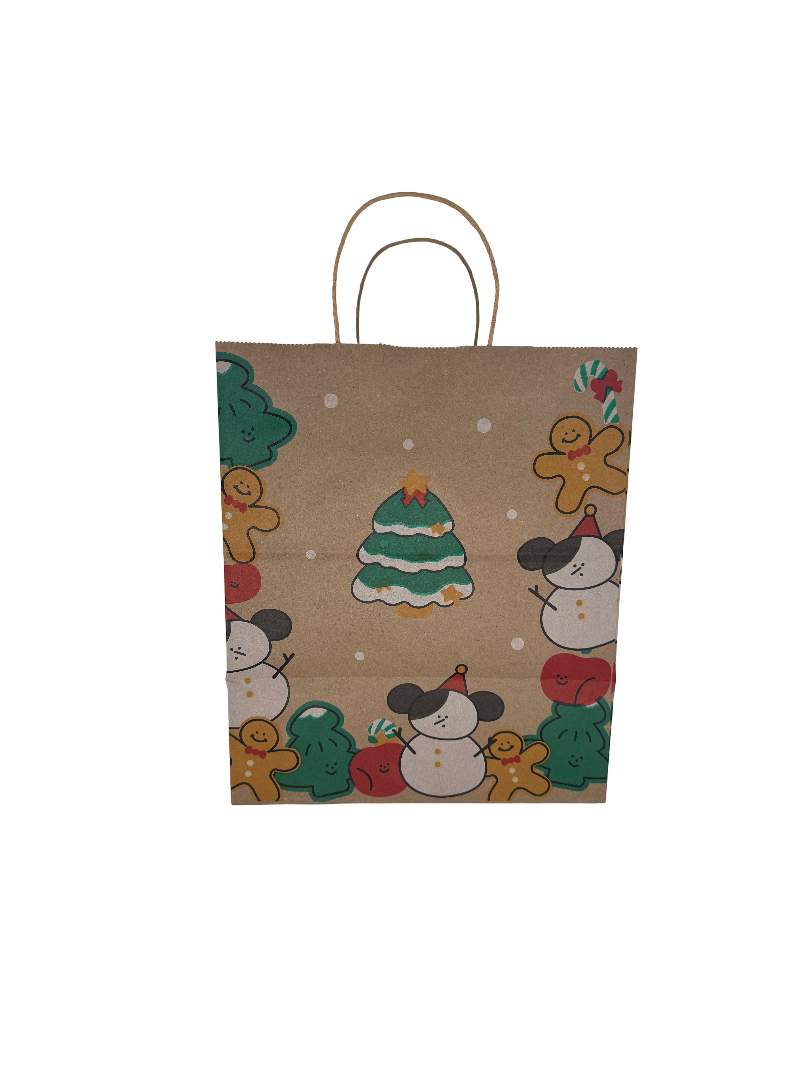
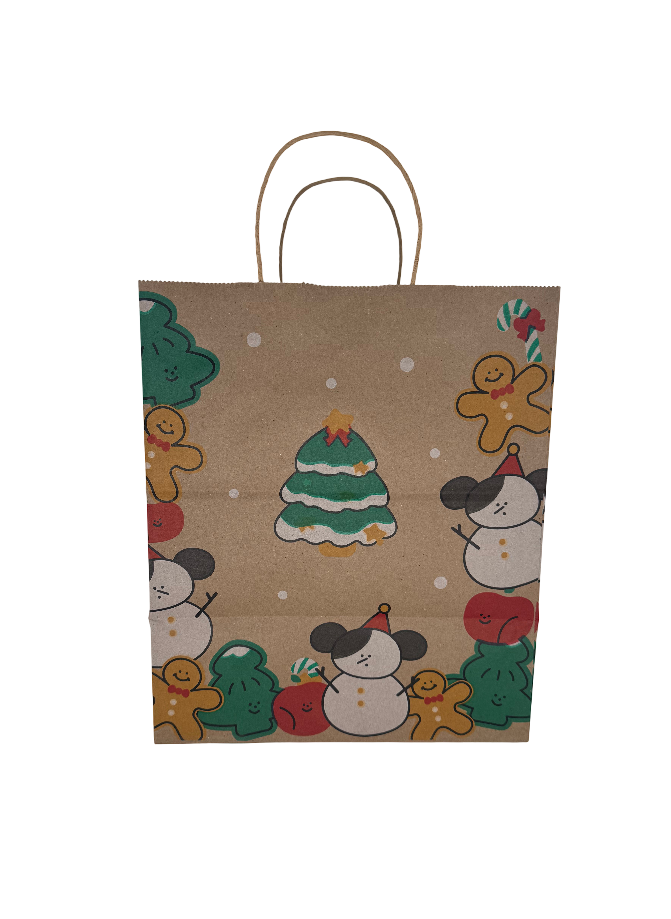
pic adding

Changed region(s): [[0.2086, 0.1219, 0.8346, 0.8226], [0.5961, 0.3961, 0.6259, 0.4266]]

diff --git a/app/components/ProductPage/ProductPage.tsx b/app/components/ProductPage/ProductPage.tsx
@@ -13,9 +13,13 @@ import styles from './Productpage.module.css';
 import QuoteForm from '../QuoteForm/QuoteForm';
 import ProductTable from '../ProductTable/ProductTable';
 import ropehandle from '../../public/paperbagproduct.jpg';
-import flathandle from '../../public/flathandle1.jpeg';
-import flathandle2 from '../../public/flathandle2.jpg.jpeg';
-import nohandle from '../../public/nohandle.jpeg';
+import flathandle from '../../public/onebag-christmas-side-white.png';
+import thankyou from '../../public/onebag-thankyou-front-white.png';
+import smileRope from '../../public/one-bag-smile-side.png';
+import nohandle from '../../public/onebagnohandle.png';
+import twobag from '../../public/twobag-nohandle.png'
+import christmasFront from '../../public/onebag-white-front-christmas.png'
+
 
 interface ProductPageProps {
   handleNavigation: (page: string) => void;
@@ -39,7 +43,7 @@ const ProductPage: React.FC<ProductPageProps> = ({ handleNavigation }) => {
 
   return (
     <div style={{ display: 'flex', justifyContent: 'center', alignItems: 'flex-start' }}>
-      <ProductImageCarousel images={[ropehandle, flathandle, flathandle2, nohandle]} />
+      <ProductImageCarousel images={[ropehandle, flathandle, christmasFront, twobag, thankyou, smileRope, nohandle]} />
       <div className="productDetailsContainer">
         <h2 className="productName">Kraft Paper Bag</h2>
         <div className="logoContainer">

diff --git a/app/components/ProductImageCarousel/ProductImageCarousel.module.css b/app/components/ProductImageCarousel/ProductImageCarousel.module.css
@@ -4,17 +4,17 @@
     align-items: center;
     justify-content: center;
     position: relative;
-    width: 680px; /* Adjust to include arrow button spacing */
-    margin-top: 120px;
-    margin-left: 110px;
+    width: 630px; /* Adjust to include arrow button spacing */
+    margin-top: 100px;
+    margin-left: 40px;
   }
   
   /* Vertical preview container on the left */
   .previewContainer {
     display: flex;
     flex-direction: column;
-    gap: 5px;
-    width: 30%;
+    gap: 3px;
+    width: 22%;
     margin-bottom: 100px;
   }
   .previewItem {
@@ -43,16 +43,17 @@
     display: flex;
     align-items: center;
     justify-content: center;
-    margin-left: 10px;
-    margin-bottom: 50px;
+    margin-bottom: 90px;
+    padding: 5px;
+    border-radius: 10px;
   }
   
   .imageContainer {
     width: 550px;
-    height: 520px; /* Set a fixed height to prevent resizing */
+    height: 700px; /* Set a fixed height to prevent resizing */
     overflow: hidden;
     max-width: 420px;
-    min-width: 400px;
+    min-width: 300px;
   }
   
   
@@ -65,9 +66,9 @@
     transform: translateY(-50%);
     z-index: 1;
     padding: 3px;
-    margin-top: 320px;
-    margin-left: 5px;
-    margin-right: -10px;
+    margin-top: 225px;
+    margin-left: -10px;
+    margin-right: 10px;
   }
   
   /* Position left arrow */

diff --git a/app/components/LogoPage.tsx b/app/components/LogoPage.tsx
@@ -8,7 +8,7 @@ import timelogo from '../public/fastclock.jpg';
 import biodegradable from '../public/biodegradablelogo.jpg';
 import tknlogo from '../public/tkn_products.png';
 import paperbagheader from '../public/paperbagfullheader2.jpg';
-import custombag from '../public/paperbagproduct.jpg';
+import custombag from '../public/two-bag-homepage.png';
 import Link from 'next/link';
 
 interface LogoPageProps {
@@ -97,7 +97,7 @@ const LogoPage: React.FC<LogoPageProps> = ({ handleNavigation }) => {
             </p>
           </div>
           <div className="design-image">
-            <Image src={custombag} alt="Custom Bag" width={350} height={350} />
+            <Image src={custombag} alt="Custom Bag" width={750} height={750} />
           </div>
         </div>
         <div className="design-buttoncontainer">

diff --git a/app/components/InfoPage/InfoPage.tsx b/app/components/InfoPage/InfoPage.tsx
@@ -3,7 +3,7 @@
 import React from "react";
 import Image from "next/image";
 import styles from "./InfoPage.module.css";
-import placeholder from "../../public/placeholder.png";
+import placeholder from "../../public/two-bag-christmas-white.png";
 import servicepic from "../../public/mtc_history-1.jpg"
 
 interface InfoPageProps {
@@ -29,8 +29,8 @@ const InfoPage: React.FC<InfoPageProps> = ({ handleNavigation }) => {
           <Image
             src={placeholder}
             alt="Placeholder"
-            width={300}
-            height={300}
+            width={550}
+            height={550}
           />
         </div>
       </div>
